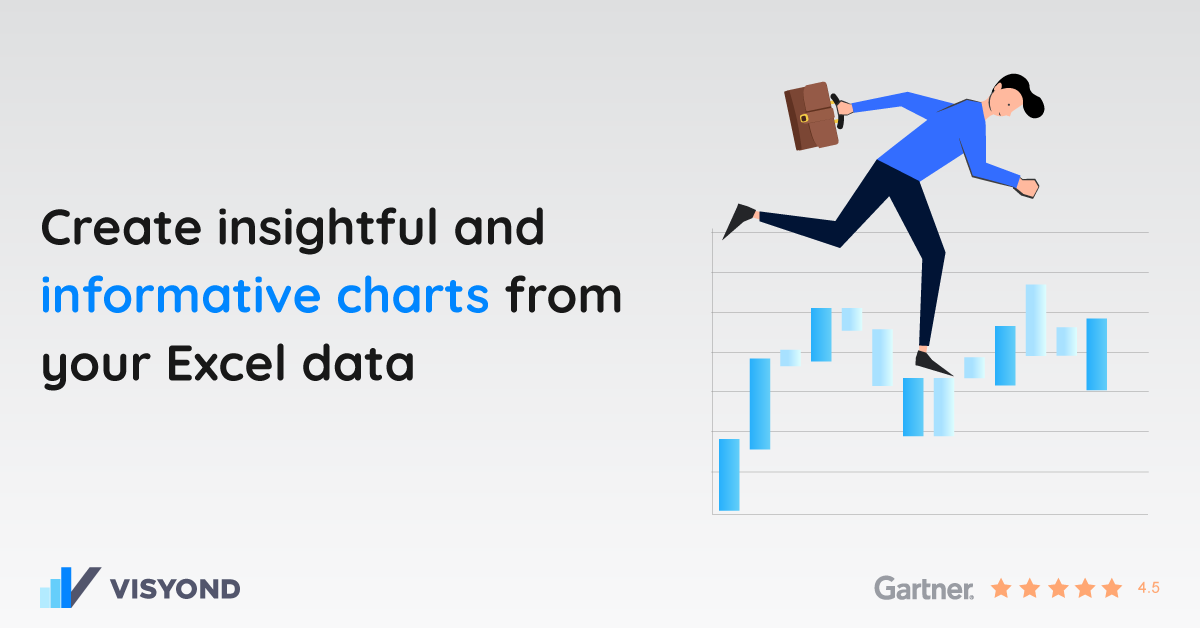
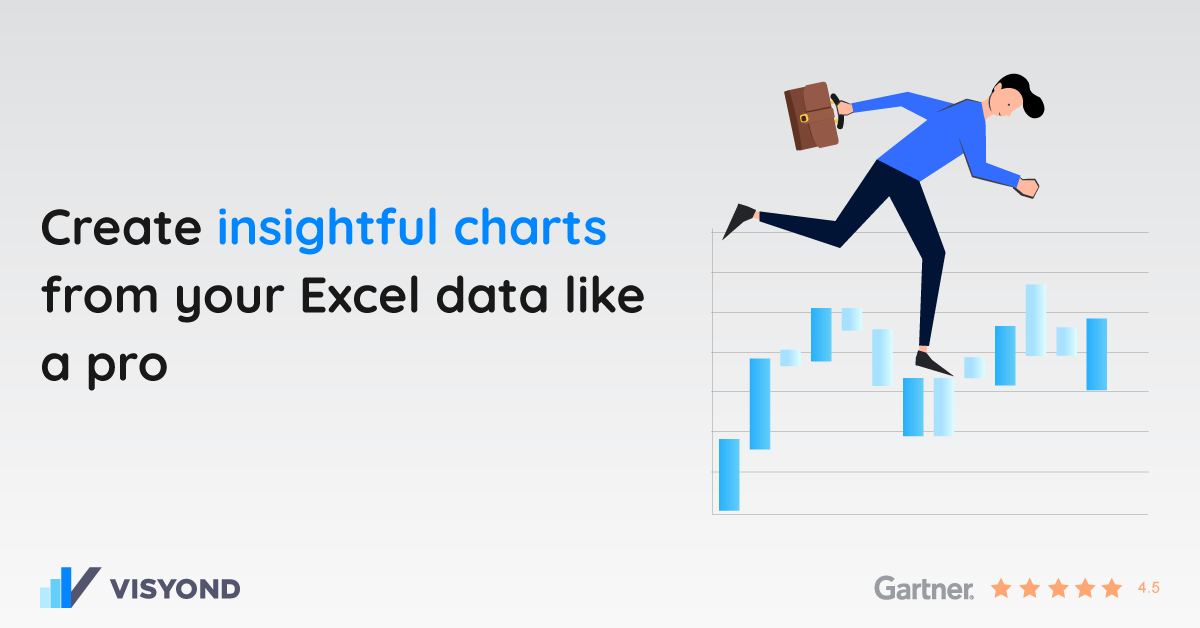
update meta tags and thumnails on solutions + home

Changed region(s): [[0.0308, 0.3328, 0.555, 0.5143], [0.0308, 0.5446, 0.37, 0.6354]]

diff --git a/site/content/_index.md b/site/content/_index.md
@@ -1,36 +1,29 @@
 ---
 aliases: 
-  - /solutions/share-spreadsheets-and-presentations-online/
   - /solutions/compatibility-with-excel-and-powerpoint/
-  - /solutions/track-changes-from-an-excel-file/
-  - /solutions/collaborative-decision-making-software/
-  - /solutions/spreadsheet-collaboration-software/
-  - /solutions/collaboration/
-  - /solutions/multidimensional-olap-analysis-online/
-  - /solutions/risk-management-software-for-banks/
   - /product-tour/
   - /solutions/
   - /features/
   - /why-visyond/
   - /about/
   - /services/
+metaTags: >-
+  <meta property="og:title" content="Turn your Excel into an insights machine for scenario planning, what-if and risk analysis, interactive reporting, predictive dashboards.">
+  <meta name="title" content="Turn your Excel into an insights machine for scenario planning, what-if and risk analysis, interactive reporting, predictive dashboards.">
+
+  
+  <meta name="description" content="Visualize your spreadsheets as predictive dashboards, automate financial statements, and collaborate on what-if and risk analyses while protecting the model, sensitive data, and controlling exactly how much each and every person can interact with it.">
+  <meta property="og:description" content="Visualize your spreadsheets as predictive dashboards, automate financial statements, and collaborate on what-if and risk analyses while protecting the model, sensitive data, and controlling exactly how much each and every person can interact with it.">
+  
+  <meta property="og:image" content="https://visyond.com/img/thumbnails/Thumbnail - Homepage 2023.png">
+
+  <meta property="og:url" content="https://visyond.com">
+  
+  <meta property="og:type" content="website">  
+
 
 
 title: Turn your Excel into an insights machine.
-
-
-
-metaTags: >-
-  <meta property="og:title" content="Turn your Excel into an insights machine for scenario planning, what-if and risk analysis, interactive reporting, predictive dashboards.">
-  <meta property="og:type" content="website">
-  <meta property="og:image" content="https://visyond.com/img/thumbnails/Thumbnail - Homepage 2022.png">
-  <meta property="og:description" content="Visualize your spreadsheets as predictive dashboards, automate financial statements, and collaborate on what-if and risk analyses while protecting the model, sensitive data, and controlling exactly how much each and every person can interact with it.">
-  <meta property="og:url" content="https://visyond.com">
-  <meta name="description" content="Visualize your spreadsheets as predictive dashboards, automate financial statements, and collaborate on what-if and risk analyses while protecting the model, sensitive data, and controlling exactly how much each and every person can interact with it.">
-
-
-
-
 topTitle: >-
   Turn your Excel into an insights machine for
   </br>

diff --git a/site/content/solutions/planning-budgeting-forecasting-software.md b/site/content/solutions/planning-budgeting-forecasting-software.md
@@ -2,28 +2,26 @@
 aliases: 
 metaTags: >-
   <meta property="og:title" content="Turn your Excel into a Planning and Forecasting machine for team players">
+  <meta name="title" content="Turn your Excel into a Planning and Forecasting machine for team players">
 
-  <meta property="og:type" content="website">
+  <meta property="og:description" content="Use your Excel models and help teams align forecasts with strategic goals, improve the accuracy of your planning, and communicate insights with predictive dashboards.">
+  <meta name="description" content="Use your Excel models and help teams align forecasts with strategic goals, improve the accuracy of your planning, and communicate insights with predictive dashboards..">
 
-  <meta property="og:image" content="">
-
-  <meta property="og:description" content="Keep using your Excel models and help teams align forecasts with strategic goals, providing them with predictive dashboards, and improving the accuracy of your planning.">
+  <meta property="og:image" content="https://visyond.com/img/thumbnails/solutions2023/Thumbnail - Solutions - Planning 2023.png">
 
   <meta property="og:url" content="https://visyond.com/solutions/planning-budgeting-forecasting-software/">
 
-  <meta name="title" content="Turn your Excel into a Planning and Forecasting machine for team players">
+  <meta property="og:type" content="website">
 
-  <meta name="description" content="Keep using your Excel models and help teams align forecasts with strategic goals, providing them with predictive dashboards, and improving the accuracy of your planning.">
+
+
 title: Planning and forecasting
-
-
-
 topTitle: >-
   Turn your Excel into a 
   </br>
   <span>Planning and Forecasting</span> machine for team players
 topSubTitle: >-
-   Use your spreadsheet models and help teams align forecasts with strategic goals, improve the accuracy of your planning, and communicate insights with predictive dashboards.
+   Use your Excel models and help teams align forecasts with strategic goals, improve the accuracy of your planning, and communicate insights with predictive dashboards.
 topVideoThumbnail: /video/grid_thumbnail.jpg
 topVideo: /video/Create, Compare and Analyze Scenarios On-the-fly - Visyond.mp4
 topCoverImage: /img/icons/use-cases/use_case_1.svg

diff --git a/site/content/solutions/data-tracking-software.md b/site/content/solutions/data-tracking-software.md
@@ -1,19 +1,23 @@
 ---
-aliases: /solutions/governance/
+aliases: 
+  - /solutions/spreadsheet-collaboration-software/
+  - /solutions/governance/
+  - /solutions/collaboration/
+  - /solutions/collaborative-decision-making-software/
+  - /solutions/track-changes-from-an-excel-file/
+  - /solutions/share-spreadsheets-and-presentations-online/  
 metaTags: >-
-  <meta property="og:title" content="Improve Data Tracking and Spreadsheet Collaboration">
+  <meta property="og:title" content="Turn your Excel into an agile decision-making machine for teams">
+  <meta name="title" content="Turn your Excel into an agile decision-making machine for teams">
 
-  <meta property="og:type" content="website">
+  <meta property="og:description" content="Boost your team’s capabilities to get insights from and contribute information to the central spreadsheet in a secure and organized way that you fully control.">
+  <meta name="description" content="Boost your team’s capabilities to get insights from and contribute information to the central spreadsheet in a secure and organized way that you fully control.">
 
-  <meta property="og:image" content="https://visyond.com/img/thumbnails/Solutions2022/Thumbnail - Solutions - Tracking 2022.png">
-
-  <meta property="og:description" content="Track changes and control information flows in spreadsheet models. Turn scenario planning and forecasting into a collaborative and error-free experience.">
+  <meta property="og:image" content="https://visyond.com/img/thumbnails/solutions2023/Thumbnail - Solutions - Tracking 2023.png">
 
   <meta property="og:url" content="https://visyond.com/solutions/data-tracking-software/">
 
-  <meta name="title" content="Improve Data Tracking and Spreadsheet Collaboration">
-
-  <meta name="description" content="Track changes and control information flows in spreadsheet models. Turn scenario planning and forecasting into a collaborative and error-free experience.">
+  <meta property="og:type" content="website">
 
 
 

diff --git a/site/content/solutions/financial-statement-generator.md b/site/content/solutions/financial-statement-generator.md
@@ -3,23 +3,21 @@ aliases:
   - /features/financial-statements/
   - /features/financial-statement-generator/
 metaTags: >-
-  <meta name="title" content="Generate Financial Statements from Excel">
-
-  <meta name="description" content="Expand your planning and forecasting by visualizing spreadsheet models as scenario-driven financial statements: Balance Sheet, Income Statement, and Cash Flow Statement.">
-
-  <meta property="og:title" content="Generate Financial Statements from Excel">
-
-  <meta property="og:type" content="website">
-
-  <meta property="og:image" content="https://visyond.com/img/thumbnails/Solutions2022/Thumbnail - Solutions - Statements 2022.png">
+  <meta property="og:title" content="Transform your Excel into financial statements">
+  <meta name="title" content="Transform your Excel into financial statements">
 
   <meta property="og:description" content="Expand your planning and forecasting by visualizing spreadsheet models as scenario-driven financial statements: Balance Sheet, Income Statement, and Cash Flow Statement.">
+  <meta name="description" content="Expand your planning and forecasting by visualizing spreadsheet models as scenario-driven financial statements: Balance Sheet, Income Statement, and Cash Flow Statement.">
+
+  <meta property="og:image" content="https://visyond.com/img/thumbnails/solutions2023/Thumbnail - Solutions - Statements 2023.png">
 
   <meta property="og:url" content="https://visyond.com/solutions/financial-statement-generator/">
 
+  <meta property="og:type" content="website">
 
 
-title: Generate financial statements from Excel
+
+title: Transform your Excel into financial statements
 topTitle: >-
   Transform your Excel into <span>financial statements</span>
 topSubTitle: >-

diff --git a/site/content/solutions/financial-modeling-software.md b/site/content/solutions/financial-modeling-software.md
@@ -6,18 +6,17 @@ aliases:
   - /solutions/modeling/
 metaTags: >-
   <meta property="og:title" content="Get superpowers with an Excel-like financial modeling software">
-
-  <meta property="og:type" content="website">
-
-  <meta property="og:image" content="https://visyond.com/img/thumbnails/Solutions2022/Thumbnail - Solutions - Modeling 2022.png">
+  <meta name="title" content="Get superpowers with an Excel-like financial modeling software">
 
   <meta property="og:description" content="Improve every aspect of decision-making — from building and auditing the model, to collecting data and managing scenarios, to analyzing sensitivities and risks, to sharing insights with stakeholders.">
+  <meta name="description" content="Improve every aspect of decision-making — from building and auditing the model, to collecting data and managing scenarios, to analyzing sensitivities and risks, to sharing insights with stakeholders.">
+
+  <meta property="og:image" content="https://visyond.com/img/thumbnails/solutions2023/Thumbnail - Solutions - Modeling 2023.png">
 
   <meta property="og:url" content="https://visyond.com/solutions/solutions/financial-modeling-software/">
 
-  <meta name="title" content="Get superpowers with an Excel-like financial modeling software">
+  <meta property="og:type" content="website">
 
-  <meta name="description" content="Improve every aspect of decision-making — from building and auditing the model, to collecting data and managing scenarios, to analyzing sensitivities and risks, to sharing insights with stakeholders.">
 
 
 title: Financial modeling software

diff --git a/site/content/solutions/what-if-analysis.md b/site/content/solutions/what-if-analysis.md
@@ -11,20 +11,19 @@ aliases:
   - /features/tornado/
   - /features/business-impact-analysis-tool/
   - /solutions/business-impact-analysis-tool/
+  - /solutions/multidimensional-olap-analysis-online/  
 metaTags: >-
   <meta property="og:title" content="Turn your Excel into a what-if analysis machine for team players">
-
-  <meta property="og:type" content="website">
-
-  <meta property="og:image" content="https://visyond.com/img/thumbnails/Solutions2022/Thumbnail - Solutions - What-if 2022.png">
+  <meta name="title" content="Turn your Excel into a what-if analysis machine for team players">
 
   <meta property="og:description" content="Be prepared for any possibility with a collaborative scenario, sensitivity and risk analysis solution that anyone on the team can easily use.">
+  <meta name="description" content="Be prepared for any possibility with a collaborative scenario, sensitivity and risk analysis solution that anyone on the team can easily use.">
+
+  <meta property="og:image" content="https://visyond.com/img/thumbnails/solutions2023/Thumbnail - Solutions - What-if 2023.png">
 
   <meta property="og:url" content="https://visyond.com/solutions/what-if-analysis/">
 
-  <meta name="title" content="Turn your Excel into a what-if analysis machine for team players">
-
-  <meta name="description" content="Be prepared for any possibility with a collaborative scenario, sensitivity and risk analysis solution that anyone on the team can easily use.">
+  <meta property="og:type" content="website">
 
 
 

diff --git a/site/content/solutions/interactive-what-if-dashboards.md b/site/content/solutions/interactive-what-if-dashboards.md
@@ -9,18 +9,16 @@ aliases:
   - /solutions/create-charts-online/
 metaTags: >-
   <meta property="og:title" content="Turn your Excel into predictive dashboards that tell a story">
-
-  <meta property="og:type" content="website">
-
-  <meta property="og:image" content="https://visyond.com/img/thumbnails/Solutions2022/Thumbnail - Solutions - Dashboards 2022.png">
+  <meta name="title" content="Turn your Excel into predictive dashboards that tell a story">
 
   <meta property="og:description" content="Visualize spreadsheets as interactive 'what-if' dashboards connected to the central model, empowering your team to play with scenarios and get answers to 'what will happen if...'">
+  <meta name="description" content="Visualize spreadsheets as interactive 'what-if' dashboards connected to the central model, empowering your team to play with scenarios and get answers to 'what will happen if...'">
+
+  <meta property="og:image" content="https://visyond.com/img/thumbnails/solutions2023/Thumbnail - Solutions - Dashboards 2023.png">
 
   <meta property="og:url" content="https://visyond.com/solutions/interactive-what-if-dashboards/">
 
-  <meta name="title" content="Turn your Excel into predictive dashboards that tell a story">
-
-  <meta name="description" content="Visualize spreadsheets as interactive 'what-if' dashboards connected to the central model, empowering your team to play with scenarios and get answers to 'what will happen if...'">
+  <meta property="og:type" content="website">
 
 
 

diff --git a/site/content/solutions/spreadsheet-calculators-web-apps.md b/site/content/solutions/spreadsheet-calculators-web-apps.md
@@ -3,18 +3,16 @@ aliases:
   - /solutions/spreadsheet-calculators/
 metaTags: >-
   <meta property="og:title" content="Turn your Excel into online calculators and web apps">
-
-  <meta property="og:type" content="website">
-
-  <meta property="og:image" content="https://visyond.com/img/thumbnails/Solutions2022/Thumbnail - Solutions - Dashboards 2022.png">
-
-  <meta property="og:description" content="Create no-code online calculators and web apps using the familiar syntax of Excel, helping your team to get insights from the central model and answer 'what-if' questions.">
-
-  <meta property="og:url" content="https://visyond.com/solutions/spreadsheet-calculators/">
-
   <meta name="title" content="Turn your Excel into online calculators and web apps">
 
+  <meta property="og:description" content="Create no-code online calculators and web apps using the familiar syntax of Excel, helping your team to get insights from the central model and answer 'what-if' questions.">
   <meta name="description" content="Create no-code online calculators and web apps using the familiar syntax of Excel, helping your team to get insights from the central model and answer 'what-if' questions.">
+
+  <meta property="og:image" content="https://visyond.com/img/thumbnails/solutions2023/Thumbnail - Solutions - Calculators 2023.png">
+
+  <meta property="og:url" content="https://visyond.com/solutions/spreadsheet-calculators-web-apps/">
+
+  <meta property="og:type" content="website">
 
 
 

diff --git a/site/content/solutions/revenue-optimization-cost-reduction.md b/site/content/solutions/revenue-optimization-cost-reduction.md
@@ -2,18 +2,16 @@
 aliases: 
 metaTags: >-
   <meta property="og:title" content="Turn your Excel into an insights machine to optimize revenues and reduce costs">
-
-  <meta property="og:type" content="website">
-
-  <meta property="og:image" content="">
+  <meta name="title" content="Turn your Excel into an insights machine to optimize revenues and reduce costs">
 
   <meta property="og:description" content="Quickly identify what drives revenues, costs, and other decision metrics, find opportunities for optimization, analyze scenarios and risks, and communicate insights with predictive dashboards.">
+  <meta name="description" content="Quickly identify what drives revenues, costs, and other decision metrics, find opportunities for optimization, analyze scenarios and risks, and communicate insights with predictive dashboards.">
+
+  <meta property="og:image" content="https://visyond.com/img/thumbnails/solutions2023/Thumbnail - Solutions - Optimizations 2023.png">
 
   <meta property="og:url" content="https://visyond.com/solutions/revenue-optimization-cost-reduction/">
 
-  <meta name="title" content="Turn your Excel into an insights machine to optimize revenues and reduce costs">
-
-  <meta name="description" content="Quickly identify what drives revenues, costs, and other decision metrics, find opportunities for optimization, analyze scenarios and risks, and communicate insights with predictive dashboards.">
+  <meta property="og:type" content="website">
 
 
 

diff --git a/site/content/solutions/create-charts.md b/site/content/solutions/create-charts.md
@@ -2,19 +2,16 @@
 aliases: 
 metaTags: >-
   <meta property="og:title" content="Create insightful charts from your Excel data like a pro">
-
-  <meta property="og:type" content="website">
-
-  <meta property="og:image" content="">
-
-  <meta property="og:description" content="Easily create Waterfall charts and other types of advanced and simple graphs, and use them in interactive reports that are connected to the central model, its scenarios and analyses.">
-
-  <meta property="og:url" content="https://visyond.com/solutions/create-charts">
-
   <meta name="title" content="Create insightful charts from your Excel data like a pro">
-
+  
+  <meta property="og:description" content="Easily create Waterfall charts and other types of advanced and simple graphs, and use them in interactive reports that are connected to the central model, its scenarios and analyses.">
   <meta name="description" content="Easily create Waterfall charts and other types of advanced and simple graphs, and use them in interactive reports that are connected to the central model, its scenarios and analyses.">
+  
+  <meta property="og:image" content="https://visyond.com/img/thumbnails/solutions2023/Thumbnail - Solutions - Charts 2023.png">
 
+  <meta property="og:url" content="https://visyond.com/solutions/create-charts/">
+  
+  <meta property="og:type" content="website">
 
 
 

diff --git a/site/content/solutions/monte-carlo-simulation-software.md b/site/content/solutions/monte-carlo-simulation-software.md
@@ -4,6 +4,7 @@ aliases:
   - /features/monte-carlo-simulation-software/
   - /solutions/risk-analysis-and-simulations/
   - /solutions/monte-carlo-simulation-software-for-mac/
+  - /solutions/risk-management-software-for-banks/  
 metaTags: >-
   <meta property="og:title" content="Automate Risk Analysis and Monte Carlo Simulations. In Minutes.">
 
